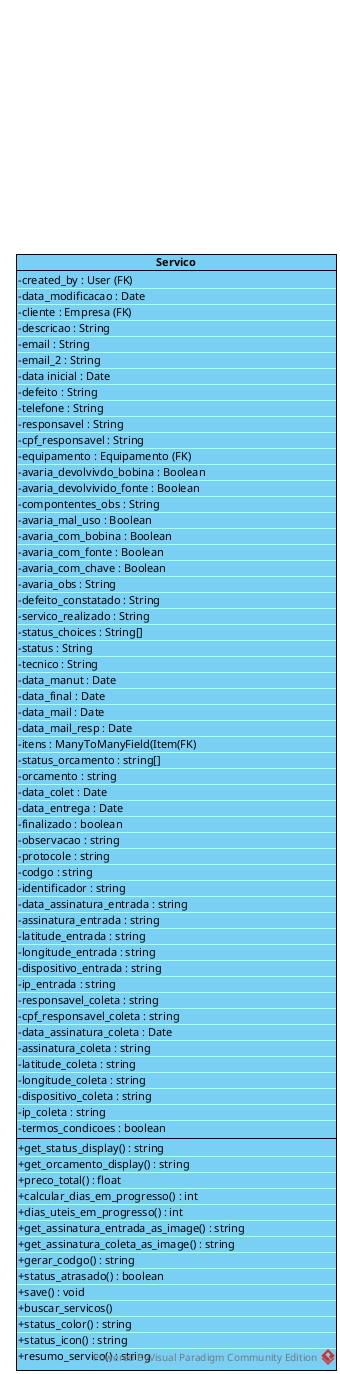
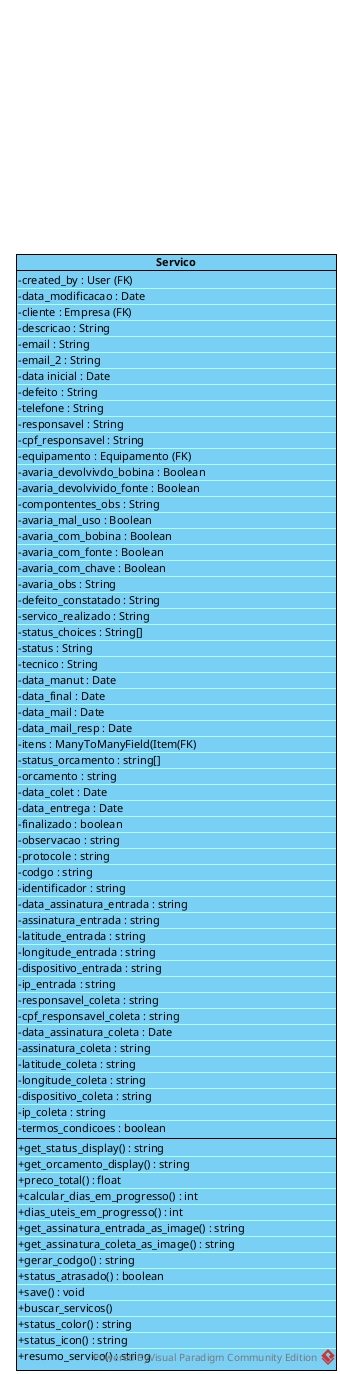
entity Manutencao

diff --git a/src/main/java/com/manutencaoerp/dev/entity/Manutencao.java b/src/main/java/com/manutencaoerp/dev/entity/Manutencao.java
@@ -1,0 +1,39 @@
+package com.manutencaoerp.dev.entity;
+
+import jakarta.persistence.*;
+import lombok.Getter;
+import lombok.Setter;
+
+@Entity
+@Table(name = "manutencao")
+public class Manutencao {
+
+    @Id
+    @GeneratedValue(strategy = GenerationType.IDENTITY)
+    @Column(name = "manutencao_id")
+    @Getter
+    @Setter
+    private Integer manutencaoId;
+
+    @Column(name = "problema_relatado",nullable = false)
+    @Getter
+    @Setter
+    private String problemaRelatado;
+
+    @Column(name = "defeito_constatado",nullable = false)
+    @Getter
+    @Setter
+    private String defeitoConstatado;
+
+    @Column(name = "servico_realizado",nullable = false)
+    @Getter
+    @Setter
+    private String servicoRealizado;
+
+    @OneToOne(fetch = FetchType.LAZY)
+    @JoinColumn(name = "ordem_servico_id")
+    @Getter
+    private OrdemServico ordemServico;
+
+    public Manutencao(){}
+}

diff --git a/src/main/java/com/manutencaoerp/dev/entity/OrdemServico.java b/src/main/java/com/manutencaoerp/dev/entity/OrdemServico.java
@@ -26,4 +26,10 @@ public class OrdemServico {
     @ManyToOne(fetch = FetchType.LAZY)
     @JsonBackReference
     private Equipamento equipamento;
+
+    @OneToOne(mappedBy = "ordemServico",cascade = CascadeType.ALL,orphanRemoval = true)
+    private Manutencao manutencao;
+
+
+    public OrdemServico(){}
 }

diff --git a/src/main/java/com/manutencaoerp/dev/entity/Equipamento.java b/src/main/java/com/manutencaoerp/dev/entity/Equipamento.java
@@ -30,4 +30,6 @@ public class Equipamento {
     @JsonManagedReference
     @Getter
     private List<OrdemServico> ordemServicoList;
+
+    public Equipamento(){}
 }

diff --git a/src/main/java/com/manutencaoerp/dev/entity/Funcionario.java b/src/main/java/com/manutencaoerp/dev/entity/Funcionario.java
@@ -64,5 +64,7 @@ public class Funcionario {
     @Getter
     private List<OrdemServico> ordemServicoList;
 
+    public Funcionario(){}
+
 
 }